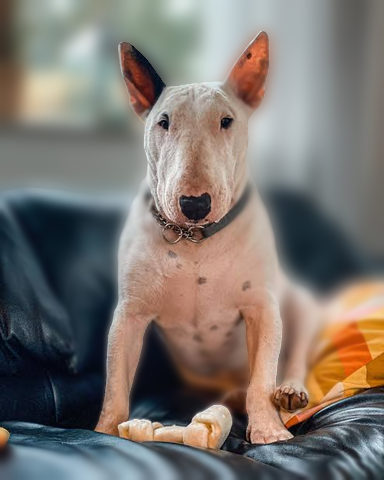
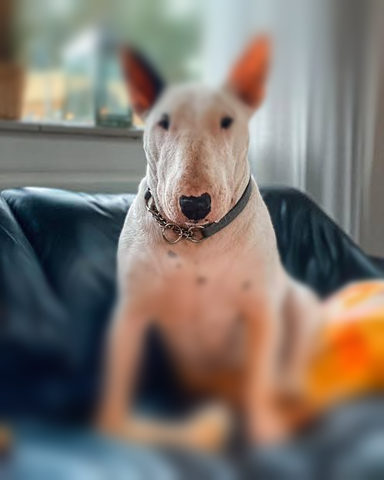
refactor(focus_blur)!: fold tilt_shift into focus_blur
The tilt look is focus_blur over a linear-gradient field (a band across the picture, any
angle) plus a grade driven by the band that stays sharp. The example recipe is that look;
the angle and saturation parameters go, so the merged effect has 8 parameters where the two
had 16.

Blur: max abs diff 0.0 vs tilt_shift (saturation 0) over 6 parameter sets (angles 0 to 360,
levels 1 and 16, every edge, truncate 1.5, focus and width at their limits). Colour changes
(accepted, D4): grade takes its grey from the blurred picture, tilt_shift from the sharp one;
max abs diff 0.23 at the old example's settings, 0.17 and 0.54 at two others (mean 0.01 to 0.05).

diff --git a/docs/effects-roadmap.md b/docs/effects-roadmap.md
@@ -68,9 +68,8 @@ it becomes a new effect only when it is a new idea. Planned merges of today's ef
 | `lens_flare` ✓ | Flare with ghost reflections. | `fx.lens_flare(x=0.8, y=0.2)` |
 | `light_rays` ✓ | God rays from a point or the highlights. | `fx.light_rays(x=0.7, y=0.1, length=0.5)` |
 | `chromatic_aberration` ✓ | Radial red/blue fringing; `samples` fans it into a rainbow (preset `prism`). | `fx.chromatic_aberration(amount=4)` |
-| `tilt_shift` ✓ | Miniature effect: blur away from a band, boost colour. | `fx.tilt_shift(focus=0.5, width=0.15)` |
 | `light_leak` ✓ | Warm coloured light washes . | `fx.light_leak(color="#ff7a2b")` |
-| `focus_blur` ✓ | Blur by how far a `field` (default `depth`: the model, or a map you supply) lies from `focus`; a band around it stays sharp. | `fx.focus_blur(focus=0.58, radius=8)` |
+| `focus_blur` ✓ | Blur by how far a `field` (default `depth`: the model, or a map you supply) lies from `focus`; a band around it stays sharp. A linear-gradient `field` and a `grade` driven by the band is the miniature look ([focus_blur.toml](../examples/effects/focus_blur.toml)). | `fx.focus_blur(focus=0.58, radius=8)` |
 
 ## Texture and finish
 
@@ -334,8 +333,8 @@ lands.
 
 **Core: field parameters.** An effect may name a field (`depth`, `light`, `subject`, a region such as a gradient or a
 band), resolved like a `Drive`'s `by`; only named fields are built. This merged `relight`, `bump_light` and `emboss`
-(`relight`'s `field`; presets `bump_light` and `emboss`), will merge `depth_of_field` with `tilt_shift` (`focus_blur`; the
-tilt look = a linear-gradient field), and gives `topographic` depth contours.
+(`relight`'s `field`; presets `bump_light` and `emboss`) and `depth_of_field` with `tilt_shift` (`focus_blur`; the tilt
+look = a linear-gradient field), and gives `topographic` depth contours.
 
 **Merges that change no picture:**
 

diff --git a/docs/design-decisions.md b/docs/design-decisions.md
@@ -164,6 +164,13 @@ contributors are in [CLAUDE.md](../CLAUDE.md); what is planned is in the [effect
   it is data in the recipe, not a second effect per source or an input only code can pick. *Consequence:* registering
   an effect fails unless each `FieldName` parameter has a keyword-only argument of its name; a map a field needs and
   nobody gave is the usual `MapNotFoundError`.
+- **`focus_blur` is one effect; the miniature is a recipe.** The blur depends only on how far a field lies from `focus`, so a
+  depth gives a lens, a linear gradient gives a tilt-shift band, `light` or a given map gives any other. The colour a miniature
+  adds is not blur: it is a `grade` driven by the band that stays sharp (`examples/effects/focus_blur.toml`). *Reason:*
+  `depth_of_field` and `tilt_shift` were the same blur with two ways to find a distance; a saturation in the blur effect
+  would be a parameter the depth look never wants. *Consequence:* the blur is byte-identical to both old effects; the
+  saturation is not, because `grade` takes its grey from the blurred picture where `tilt_shift` took it from the sharp one
+  (up to 0.23 at the old example's settings).
 
 ## Recipes
 
